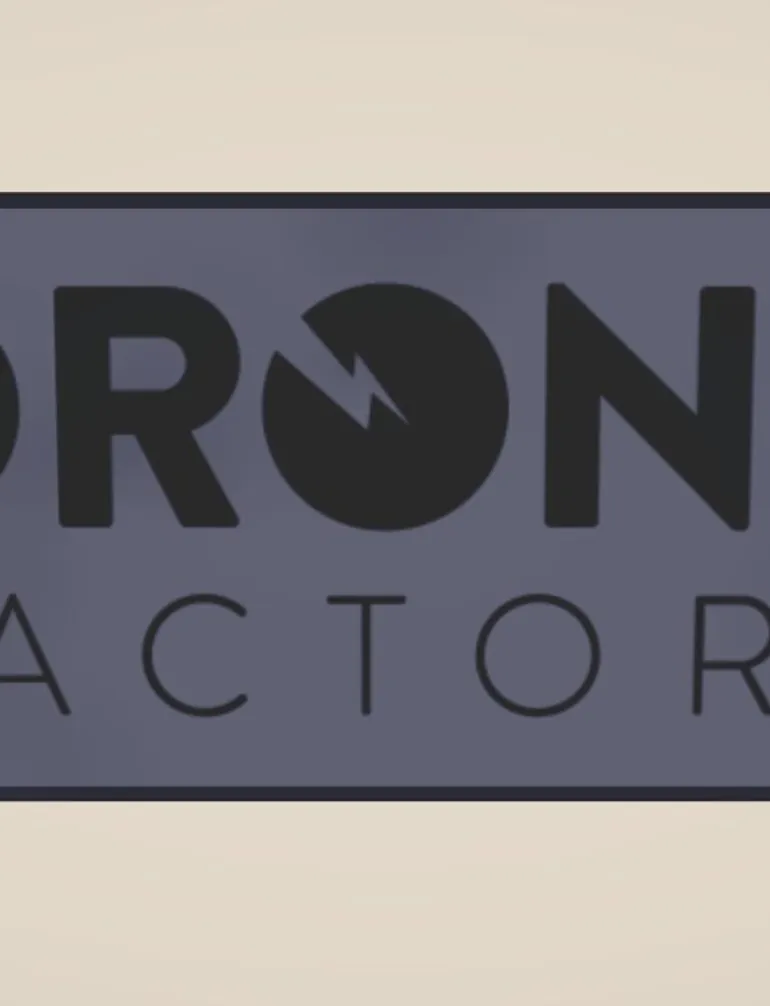
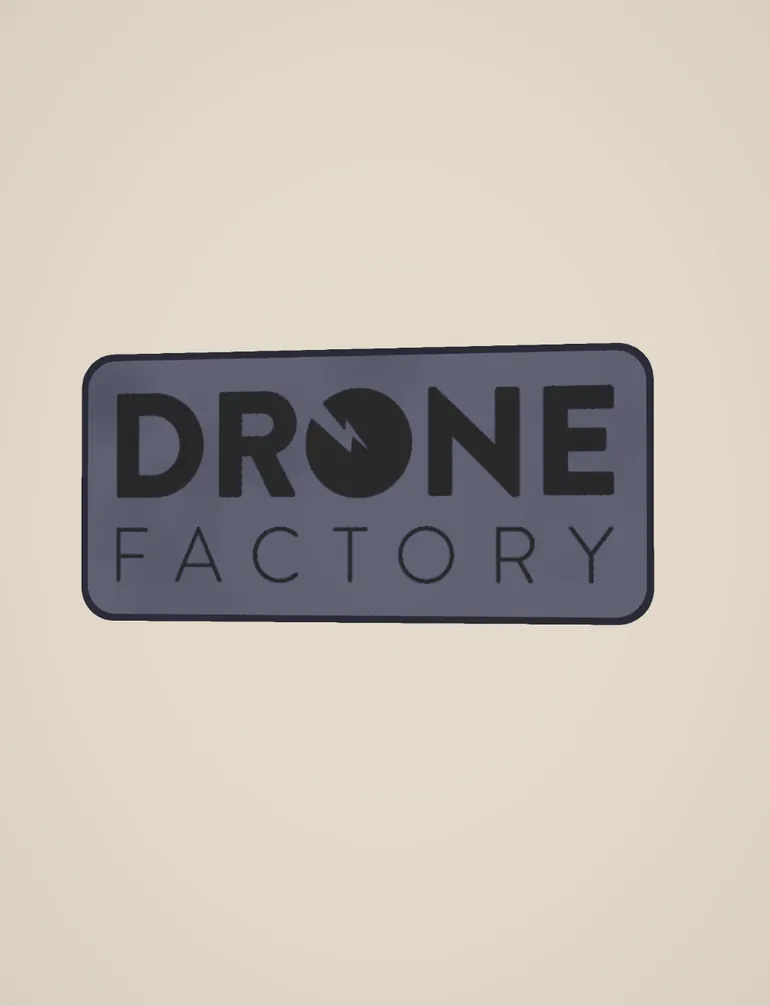
Chapter 4 polish: Drone Factory sign at Nick's drawn by the rig on its own wall
Claude-Session: https://claude.ai/code/session_01P6BwsAi3Tfdn3ZM5yZwyTD

diff --git a/tools/shoot/c4.js b/tools/shoot/c4.js
@@ -94,8 +94,7 @@ const threads = [
   { id: 'p7-c', page: 'c4-p7', panel: 'c', file: path.join(PF, 'webleed-whoop-room', 'close.jpg'), note: 'The weBLEEDfpv sign on the whoop room wall (sim PR 144).' },
   { id: 'p7-d', page: 'c4-p7', panel: 'd', file: path.join(PF, 'track-preview-overlays', 'after-track.png'), note: 'A course preview with the gate markings hidden (sim PR 146).' },
   { id: 'p9-a', page: 'c4-p9', panel: 'a', file: path.join(PF, 'dronefactory-logos', 'bardwell-house-wide.jpg'), note: 'The Drone Factory sign at Bardwell\'s (sim PR 155).' },
-  { id: 'p9-b', page: 'c4-p9', panel: 'b', file: path.join(PF, 'dronefactory-logos', 'heads-house-wide.jpg'), note: 'The Drone Factory sign at Heads\' (sim PR 155).' },
-  { id: 'p9-c', page: 'c4-p9', panel: 'c', file: path.join(PF, 'dronefactory-logos', 'nick-burns-house-close.jpg'), note: 'The Drone Factory sign at Nick\'s (sim PR 155).' }
+  { id: 'p9-b', page: 'c4-p9', panel: 'b', file: path.join(PF, 'dronefactory-logos', 'heads-house-wide.jpg'), note: 'The Drone Factory sign at Heads\' (sim PR 155).' }
 ].filter((t) => fs.existsSync(t.file));
 
 module.exports = {
@@ -142,6 +141,12 @@ module.exports = {
         const f = L.frame(14);
         return { cam: [f.p[0] - f.fwd[0] * 3, f.p[1] + 0.1, f.p[2] - f.fwd[2] * 3], look: [f.p[0] + f.fwd[0] * 3, f.p[1], f.p[2] + f.fwd[2] * 3], fov: 90, quad: null };
       }
+    },
+    {
+      /* The Drone Factory sign on the garage's east wall: supporters.js,
+       * plan (21.5, 4.7, 1.5) facing east, so world (19.25, 5.25, -37.45). */
+      id: 'p9-c', page: 'c4-p9', panel: 'c', world: 'house',
+      make: () => ({ cam: [17.5, 5.0, -35.4], look: [26.4, 5.2, -37.55], fov: 27, quad: null })
     },
     {
       id: 'p8-a', page: 'c4-p8', panel: 'a', world: 'heads',
